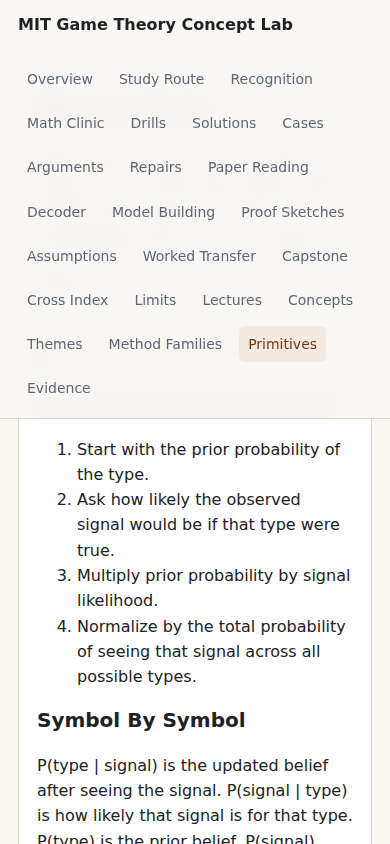
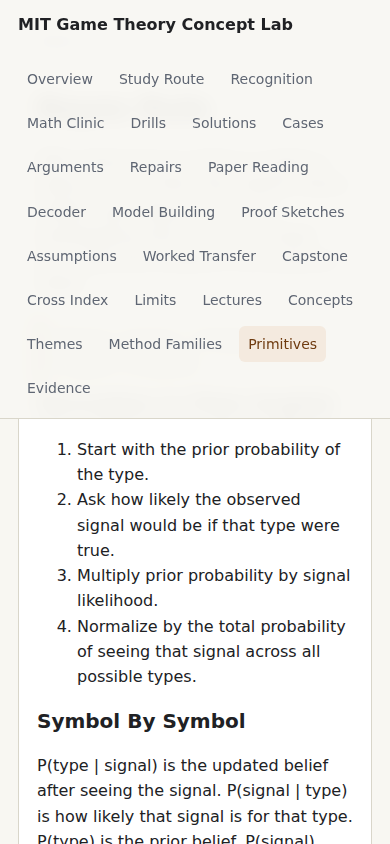
Deepen MIT derivation worked checks

diff --git a/site/primitives.html b/site/primitives.html
@@ -203,6 +203,7 @@
   <h3>Common Misread</h3><p>The common mistake is deleting a strategy because it performs badly in the most likely case. That is not dominance. Dominance requires the inequality to hold across every case named by the model.</p>
   <h3>First-Principles Pressure</h3><p>The pressure behind the inequality is ignorance about what the opponent will do. If one move beats another only under your favorite guess, the conclusion depends on that guess. Dominance is stronger because it says the losing move cannot defend itself under any modeled opponent action.</p>
   <h3>Mechanical Reading</h3><p>Read the equation as a row-by-row or column-by-column inspection. Keep the opponent action fixed, compare the two payoffs, then move to the next opponent action. The strict greater-than in at least one place prevents calling two identical moves a real dominance relation.</p>
+  <h3>Tiny Worked Check</h3><p>Use a two-column payoff row check. If high price gives 3 against aggressive and 6 against calm, while low price gives 4 against aggressive and 6 against calm, low price weakly beats high price everywhere and strictly beats it once. The deletion depends on checking both columns; using only the aggressive column would be a forecast, not a dominance proof.</p>
   <h3>Audit Question</h3><p>Before deleting a move, ask: did I check every opponent contingency in the model, and am I using strict dominance, weak dominance, or a belief-based argument?</p>
 </article><article class="wide-card derivation-card" id="expected_utility">
   <p class="eyebrow">belief</p>
@@ -216,6 +217,7 @@
   <h3>Common Misread</h3><p>The formula is not saying the average state actually happens. It is a decision rule for choosing under uncertainty.</p>
   <h3>First-Principles Pressure</h3><p>The pressure is that action comes before certainty. A bidder, sender, or player must choose while several hidden worlds are still possible. Expected utility gives a disciplined way to let each possible world count in proportion to how seriously the player takes it.</p>
   <h3>Mechanical Reading</h3><p>Read the sum as a weighted checklist. For each possible theta, write the payoff from action a, multiply by the probability of that theta, and add the pieces. High payoff in a rare state can matter less than modest payoff in a likely state.</p>
+  <h3>Tiny Worked Check</h3><p>Try an action that earns 90 in a high-value state with probability one third and 0 otherwise. The expected utility contribution is one third times 90 plus two thirds times 0, which gives 30 before comparing other actions. The point is not that 30 will occur; it is the single number that lets an uncertain action be compared with another uncertain action.</p>
   <h3>Audit Question</h3><p>Ask whether the probabilities are justified, whether the utility numbers represent risk attitudes correctly, and whether the action is being compared against the same belief distribution.</p>
 </article><article class="wide-card derivation-card" id="best_response">
   <p class="eyebrow">best response</p>
@@ -229,6 +231,7 @@
   <h3>Common Misread</h3><p>A best response is always conditional. If the opponent action or belief changes, the best response may change too.</p>
   <h3>First-Principles Pressure</h3><p>The pressure is strategic dependence. A move cannot be judged in isolation because its payoff is created with other players&#x27; moves. Best response freezes the surrounding strategic world long enough to ask one local question clearly: what would this player choose now?</p>
   <h3>Mechanical Reading</h3><p>Read argmax as a search over the player&#x27;s available actions. Hold a_-i fixed, compute u_i for each candidate action, and collect the action or actions with the largest value. If two actions tie, the best-response set contains both.</p>
+  <h3>Tiny Worked Check</h3><p>Suppose the rival chooses low quantity. Your payoffs are 5 from low quantity, 8 from medium quantity, and 6 from high quantity. The best-response set is medium quantity because 8 is the largest payoff against that fixed rival choice. If the rival changes to high quantity, this calculation must be redone; the old answer was conditional, not universal. In a paper, look for the phrase that names what is held fixed before trusting any best-response curve.</p>
   <h3>Audit Question</h3><p>Ask what was held fixed, what actions were allowed, and whether the paper is treating a best response to one belief as if it were best against all beliefs. Also check whether constraints, information, or timing remove actions that look available in the informal story.</p>
 </article><article class="wide-card derivation-card" id="nash_equilibrium">
   <p class="eyebrow">mutual consistency</p>
@@ -242,6 +245,7 @@
   <h3>Common Misread</h3><p>Equilibrium does not mean the best overall outcome. It means no single player wants to move alone under the modeled payoffs.</p>
   <h3>First-Principles Pressure</h3><p>The pressure is circular prediction. Each player&#x27;s best move depends on the others, so a prediction must close the loop. Nash equilibrium says the proposed profile is internally consistent because every player is already doing something that survives their own unilateral check.</p>
   <h3>Mechanical Reading</h3><p>Read the condition one player at a time. Take the proposed action a_i, compare it to that player&#x27;s best-response set against a_-i, and repeat for every player. One failed membership check is enough to reject the proposed equilibrium.</p>
+  <h3>Tiny Worked Check</h3><p>Test a proposed pair of prices, high and high. Freeze shop B at high and ask whether shop A earns more by switching to low. Then freeze shop A at high and ask the same question for shop B. If either shop has a profitable one-sided switch, the pair is not Nash even if both shops would have preferred mutual high prices. The check rejects unsupported stability; it does not ask whether the outcome is socially best. After rejection, look for another candidate rather than changing both players at once.</p>
   <h3>Audit Question</h3><p>Ask which deviations are excluded by the model, whether the equilibrium is unique, and whether the result is being oversold as efficient or morally desirable.</p>
 </article><article class="wide-card derivation-card" id="backward_induction">
   <p class="eyebrow">backward recursion</p>
@@ -255,6 +259,7 @@
   <h3>Common Misread</h3><p>Solving backward is only as good as the tree. If the tree leaves out information, renegotiation, or hidden types, the backward calculation can be precise but misleading.</p>
   <h3>First-Principles Pressure</h3><p>The pressure is credibility over time. A plan announced at the start can contain future actions that the player would abandon when the moment arrives. Backward induction forces every future step to be evaluated from the point where it would actually be chosen.</p>
   <h3>Mechanical Reading</h3><p>Read V(node) as the value inherited by a decision point after later choices have been settled. At each node, the moving player chooses the branch with the highest continuation value, and that chosen value is passed backward to earlier decisions.</p>
+  <h3>Tiny Worked Check</h3><p>Imagine entry leads the incumbent to choose fight for payoff 1 or accommodate for payoff 4. Replace that later node with accommodate and value 4 before solving the entrant&#x27;s first move. The earlier threat to fight is removed by the later calculation; the tree is not asking whether the threat sounded tough, but whether it survives at the node where fighting would be chosen. If reputation or future markets would make fighting valuable, those payoffs must be put into the tree before the backward step.</p>
   <h3>Audit Question</h3><p>Ask whether every later decision point is really reached with the information assumed, and whether renegotiation, mistakes, or hidden information would change the continuation value.</p>
 </article><article class="wide-card derivation-card" id="discounted_sum">
   <p class="eyebrow">discounting</p>
@@ -268,6 +273,7 @@
   <h3>Common Misread</h3><p>The formula does not make future punishment automatically powerful. If delta is small, future consequences may barely matter.</p>
   <h3>First-Principles Pressure</h3><p>The pressure is temptation versus future discipline. A player may gain by cheating today but lose future cooperation, reputation, or market access. Discounting turns that stream of future consequences into a present comparison against the immediate gain.</p>
   <h3>Mechanical Reading</h3><p>Read the powers of delta as distance from now. Today&#x27;s payoff is not discounted, next period is multiplied once, two periods away twice, and so on. Smaller delta makes the tail shrink quickly; larger delta makes future rewards and punishments carry more weight.</p>
+  <h3>Tiny Worked Check</h3><p>If cheating gives 5 today but triggers a loss of 2 next period and 2 again the period after that, the punishment value starts as 2 delta plus 2 delta squared. A patient player with delta near one treats those future losses as large; an impatient player with small delta may still cheat. The equation is the bookkeeping for that temptation-versus-future comparison. The missing step to audit is whether the punishment actually begins after cheating is observed.</p>
   <h3>Audit Question</h3><p>Ask whether monitoring is good enough to trigger punishment, whether the punishment is credible, and whether the future is long or uncertain enough to matter. A repeated-game claim also needs a comparison to the one-shot deviation gain; patience alone does not prove cooperation.</p>
 </article><article class="wide-card derivation-card" id="bayes_rule">
   <p class="eyebrow">belief</p>
@@ -281,6 +287,7 @@
   <h3>Common Misread</h3><p>Bayes rule does not tell you off-path beliefs when the observed signal has zero probability under the proposed strategy. That is why dynamic information games need careful belief discipline.</p>
   <h3>First-Principles Pressure</h3><p>The pressure is learning from partial evidence. A signal may be more common for one hidden type than another, but it rarely identifies the type with certainty. Bayes rule combines prior belief and signal reliability without pretending the observation speaks for itself.</p>
   <h3>Mechanical Reading</h3><p>Read the numerator as the unnormalized weight for a type after the signal: prior plausibility times how likely that type would generate the signal. Read the denominator as the total signal probability that rescales all type weights into probabilities adding to one.</p>
+  <h3>Tiny Worked Check</h3><p>Suppose high ability has prior one half and sends education with probability 0.8, while low ability sends education with probability 0.2. After seeing education, the high-type weight is 0.5 times 0.8, and the low-type weight is 0.5 times 0.2. Normalize those weights: high ability becomes 0.4 divided by 0.5, or 0.8. The signal moved belief because it was more likely under one type.</p>
   <h3>Audit Question</h3><p>Ask whether the likelihoods are specified, whether the denominator includes all relevant types, and whether the paper is using Bayes rule on a path where the signal probability is actually positive.</p>
 </article><article class="wide-card derivation-card" id="auction_expected_payment">
   <p class="eyebrow">incentive compatibility</p>
@@ -294,6 +301,7 @@
   <h3>Common Misread</h3><p>A higher bid can raise both the chance of winning and the payment made when winning. The bidder&#x27;s incentive depends on both effects, not one alone.</p>
   <h3>First-Principles Pressure</h3><p>The pressure is that auction choices affect two things at once: the chance of getting the object and the payment if that happens. A bidder who focuses only on price ignores winning probability; a bidder who focuses only on winning ignores the cost of winning.</p>
   <h3>Mechanical Reading</h3><p>Read the expression as expected cost before the uncertainty resolves. The auction rule supplies the payment conditional on winning, while beliefs about rival bids supply the probability of winning. Multiplying them gives the average payment contribution of that bid.</p>
+  <h3>Tiny Worked Check</h3><p>If a first-price bid of 70 wins with probability 0.4, the expected payment contribution is 70 times 0.4, or 28. A higher bid of 80 might win with probability 0.6, giving expected payment 48. That does not by itself decide the bid, because the bidder also needs expected value from winning; it only isolates the payment side of the tradeoff. When the auction format changes, repeat the payment-if-win line before importing the same intuition. This is especially important in second-price and ad auctions.</p>
   <h3>Audit Question</h3><p>Ask whether the probability of winning changes with the bid, whether the payment rule is first-price, second-price, or platform-specific, and whether values are independent.</p>
 </article><article class="wide-card derivation-card" id="common_knowledge_recursion">
   <p class="eyebrow">knowledge recursion</p>
@@ -307,6 +315,7 @@
   <h3>Common Misread</h3><p>A fact being true or widely known is not enough. Common knowledge requires the recursive publicness that lets players reason about other players&#x27; reasoning.</p>
   <h3>First-Principles Pressure</h3><p>The pressure is coordination under higher-order belief. If I know a fact but am unsure whether you know it, I may not act on it. If I know you know it but doubt whether you know that I know it, coordination can still fail.</p>
   <h3>Mechanical Reading</h3><p>Read the sequence as repeated publicness. E is the fact, KE makes it known to everyone, KKE makes everyone&#x27;s knowledge itself known, and the continuing chain removes every finite level at which doubt about others&#x27; reasoning could remain.</p>
+  <h3>Tiny Worked Check</h3><p>If two firms privately receive the same rule change, E may be true for both, but each may still wonder whether the other received it. A public announcement changes the reasoning object: now each firm can reason that the other saw the same announcement and can reason that this fact is itself shared. The recursion matters only when action depends on confidence about the other player&#x27;s confidence. Ask which finite level of doubt would stop coordination; that reveals why private notice is not enough.</p>
   <h3>Audit Question</h3><p>Ask whether the information was publicly observed in a way that supports higher-order knowledge, or whether the paper is confusing shared truth with shared awareness. In coordination examples, test the first level where one player might doubt what another player knows; that is where the recursive chain earns its keep.</p>
 </article></main>
 </body>

diff --git a/scripts/validate_site.py b/scripts/validate_site.py
@@ -1117,9 +1117,10 @@ def main() -> int:
             "common_misread",
             "first_principles_pressure",
             "mechanical_reading",
+            "tiny_worked_check",
             "audit_question",
         ]
-        for heading in ["Derivation In Plain English", "Symbol By Symbol", "Why This Relation Matters", "Common Misread", "First-Principles Pressure", "Mechanical Reading", "Audit Question"]:
+        for heading in ["Derivation In Plain English", "Symbol By Symbol", "Why This Relation Matters", "Common Misread", "First-Principles Pressure", "Mechanical Reading", "Tiny Worked Check", "Audit Question"]:
             if heading not in primitives_html:
                 errors.append(f"primitives page missing derivation heading: {heading}")
         for field in derivation_fields:
@@ -1130,7 +1131,7 @@ def main() -> int:
                 errors.append(f"derivation {derivation['id']} {field} not rendered")
         combined = " ".join(str(derivation.get(field, "")) for field in derivation_fields)
         combined += " " + " ".join(derivation.get("derivation_steps", []))
-        if words(combined) < 260:
+        if words(combined) < 340:
             errors.append(f"derivation {derivation['id']} has shallow combined treatment")
     for concept in concepts:
         text = (SITE / "concepts" / f"{concept['id']}.html").read_text(encoding="utf-8")

diff --git a/scripts/audit_editorial_quality.py b/scripts/audit_editorial_quality.py
@@ -292,6 +292,7 @@ def main() -> int:
         "common_misread",
         "first_principles_pressure",
         "mechanical_reading",
+        "tiny_worked_check",
         "audit_question",
     ]
     derivation_words = [words(" ".join(str(d.get(f, "")) for f in derivation_fields) + " " + " ".join(d.get("derivation_steps", []))) for d in derivations]
@@ -1313,7 +1314,7 @@ def main() -> int:
     if len(derivations) < 8:
         errors.append(f"only {len(derivations)} derivation cards")
     for derivation, count in zip(derivations, derivation_words):
-        if count < 260:
+        if count < 340:
             errors.append(f"derivation {derivation['id']} has low teaching depth: {count} words")
     for family, count in zip(families, family_words):
         if count < 400:

diff --git a/scripts/validate_first_principles_atlas.py b/scripts/validate_first_principles_atlas.py
@@ -195,7 +195,7 @@ def main() -> int:
             errors.append(f"derivation {derivation['id']} has too few steps")
         if not str(derivation.get("equation", "")).strip():
             errors.append(f"derivation {derivation['id']} has empty equation")
-        for field in ["everyday_setup", "symbol_by_symbol", "why_it_matters", "common_misread"]:
+        for field in ["everyday_setup", "symbol_by_symbol", "why_it_matters", "common_misread", "tiny_worked_check"]:
             if words(str(derivation.get(field, ""))) < 10:
                 errors.append(f"derivation {derivation['id']} has shallow {field}")
 

diff --git a/scripts/build_site.py b/scripts/build_site.py
@@ -1407,6 +1407,7 @@ def derivation_card(derivation: dict[str, Any]) -> str:
   <h3>Common Misread</h3><p>{esc(derivation["common_misread"])}</p>
   <h3>First-Principles Pressure</h3><p>{esc(derivation["first_principles_pressure"])}</p>
   <h3>Mechanical Reading</h3><p>{esc(derivation["mechanical_reading"])}</p>
+  <h3>Tiny Worked Check</h3><p>{esc(derivation["tiny_worked_check"])}</p>
   <h3>Audit Question</h3><p>{esc(derivation["audit_question"])}</p>
 </article>"""
 

diff --git a/analysis/audits/site-render-report.md b/analysis/audits/site-render-report.md
@@ -33,7 +33,7 @@ Playwright render audit for representative desktop and mobile pages.
 - desktop-nash-equilibrium: `concepts/nash_equilibrium.html`, viewport 1280,900, captured 1280x900, 152931 bytes
 - desktop-auctions: `concepts/auctions.html`, viewport 1280,900, captured 1280x900, 133495 bytes
 - desktop-primitives: `primitives.html`, viewport 1280,900, captured 1280x900, 124299 bytes
-- desktop-derivation-expected-utility: `primitives.html#expected_utility`, viewport 1280,900, captured 1280x900, 147790 bytes
+- desktop-derivation-expected-utility: `primitives.html#expected_utility`, viewport 1280,900, captured 1280x900, 147786 bytes
 - mobile-index: `index.html`, viewport 390,844, captured 390x844, 63673 bytes
 - mobile-study-route: `study-route.html`, viewport 390,844, captured 390x844, 55389 bytes
 - mobile-recognition: `recognition.html`, viewport 390,844, captured 390x844, 56797 bytes
@@ -57,7 +57,7 @@ Playwright render audit for representative desktop and mobile pages.
 - mobile-screening-adverse-selection: `concepts/screening_and_adverse_selection.html`, viewport 390,844, captured 390x844, 57648 bytes
 - mobile-nash-equilibrium: `concepts/nash_equilibrium.html`, viewport 390,844, captured 390x844, 62309 bytes
 - mobile-primitives: `primitives.html`, viewport 390,844, captured 390x844, 51472 bytes
-- mobile-derivation-bayes-rule: `primitives.html#bayes_rule`, viewport 390,844, captured 390x844, 73954 bytes
+- mobile-derivation-bayes-rule: `primitives.html#bayes_rule`, viewport 390,844, captured 390x844, 73912 bytes
 
 ## Errors
 

diff --git a/analysis/audits/editorial-quality-report.md b/analysis/audits/editorial-quality-report.md
@@ -14,7 +14,7 @@ This static audit checks explanatory depth, required teaching sections, evidence
 - Subtheme evidence links: 33
 - Primitive treatment words: min 390, max 423
 - Primitive-to-concept backlinks: 47
-- Derivation-card words: min 267, max 379
+- Derivation-card words: min 347, max 440
 - Concept pages with derivation links: 30
 - Concept equation note words: min 30, max 37
 - Concept worked-example card words: min 174, max 196
